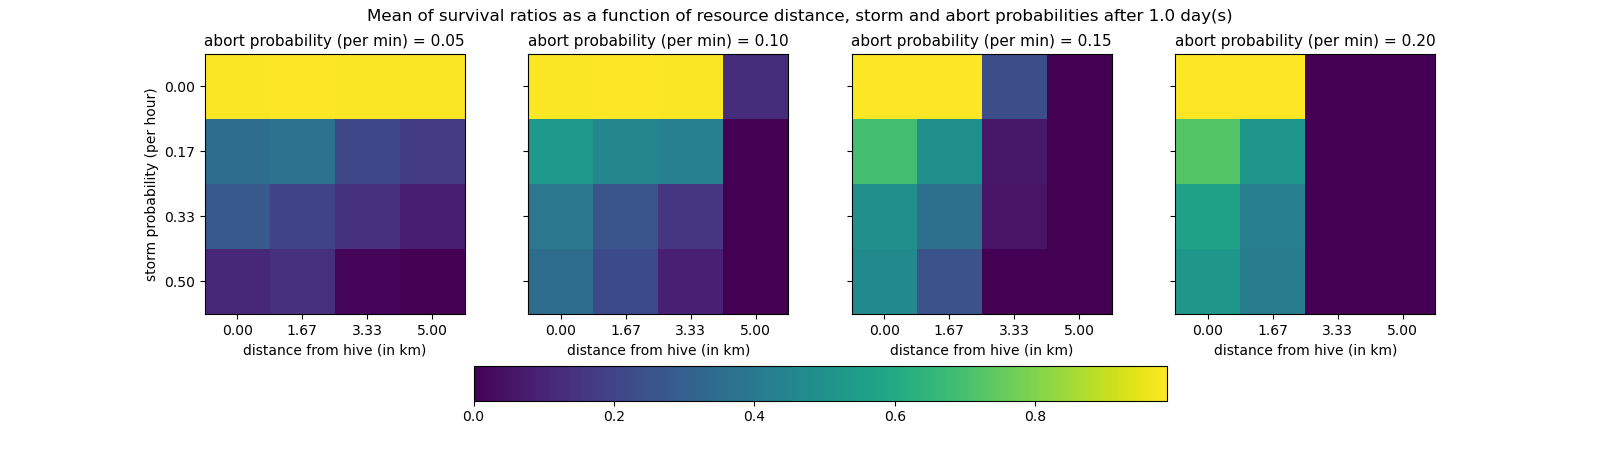
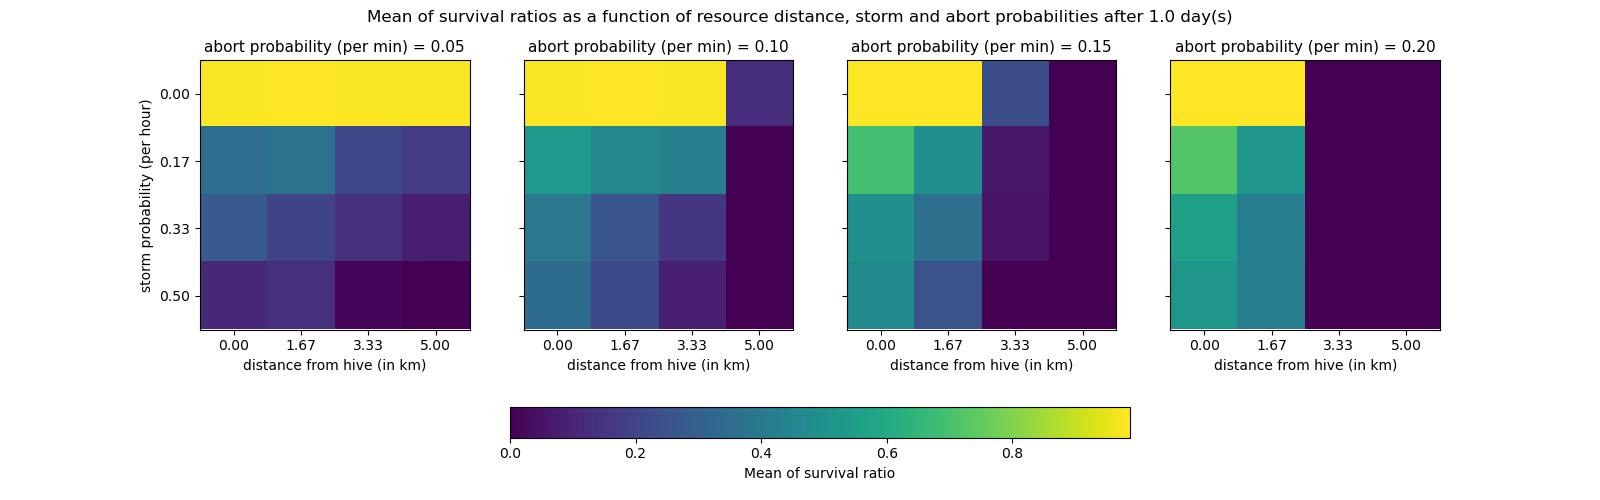
Cosmetic exp1 changes

diff --git a/continuous_model/exp1_3d.py b/continuous_model/exp1_3d.py
@@ -54,7 +54,7 @@ def run_simulation(params):
 def visualize_results(data, name: str, cmap):
     step = data.shape[2] // resolution
 
-    fig, axs = plt.subplots(1, resolution, figsize=(16, 4.5), sharey='row')
+    fig, axs = plt.subplots(1, resolution, figsize=(16, 5), sharey='row')
     images = []
     for i, ax in enumerate(axs):
         slice_idx = i * step
@@ -70,7 +70,7 @@ def visualize_results(data, name: str, cmap):
         ax.set_yticks(np.arange(resolution))
         ax.set_yticklabels([f'{p_storm*HOUR:.2f}' for p_storm in p_storm_params])
 
-    fig.colorbar(images[-1], ax=axs, orientation='horizontal', fraction=.1)
+    fig.colorbar(images[-1], ax=axs, orientation='horizontal', fraction=.1, label=f'{name} of survival ratio', pad=0.2, shrink=0.5)
     plt.suptitle(f'{name} of survival ratios as a function of resource distance, storm and abort probabilities after {t_steps*dt/DAY} day(s)')
     plt.savefig(f'../assets/images/bee_survival_ratio_3d_{name}.png')
     plt.show()
